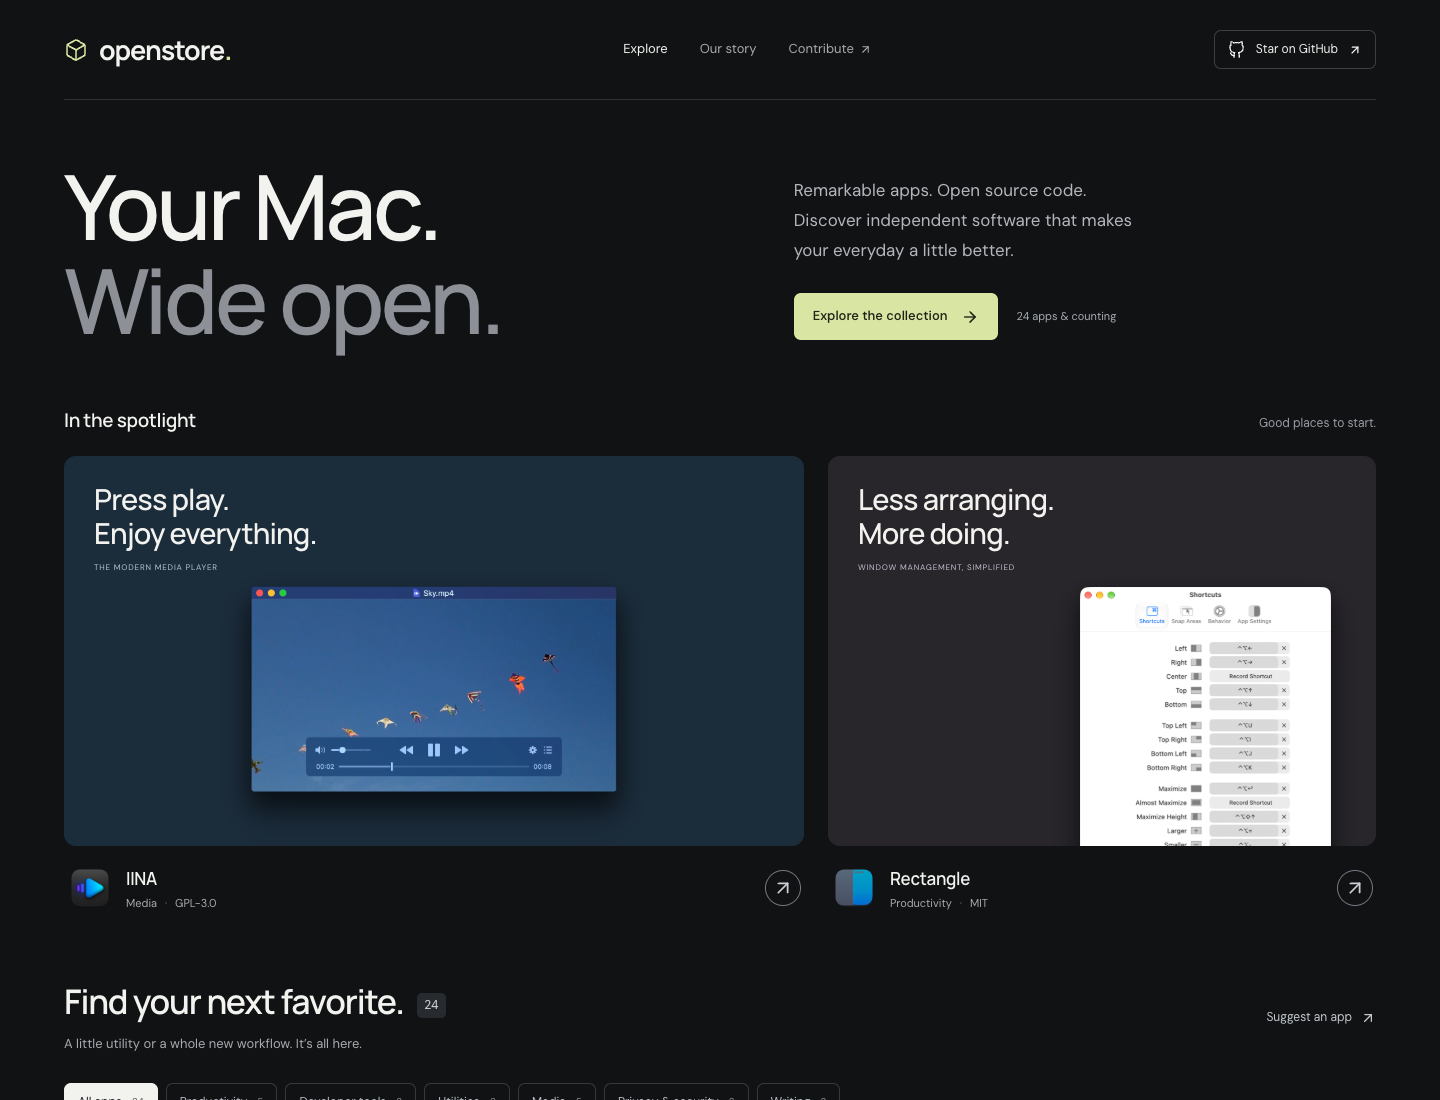
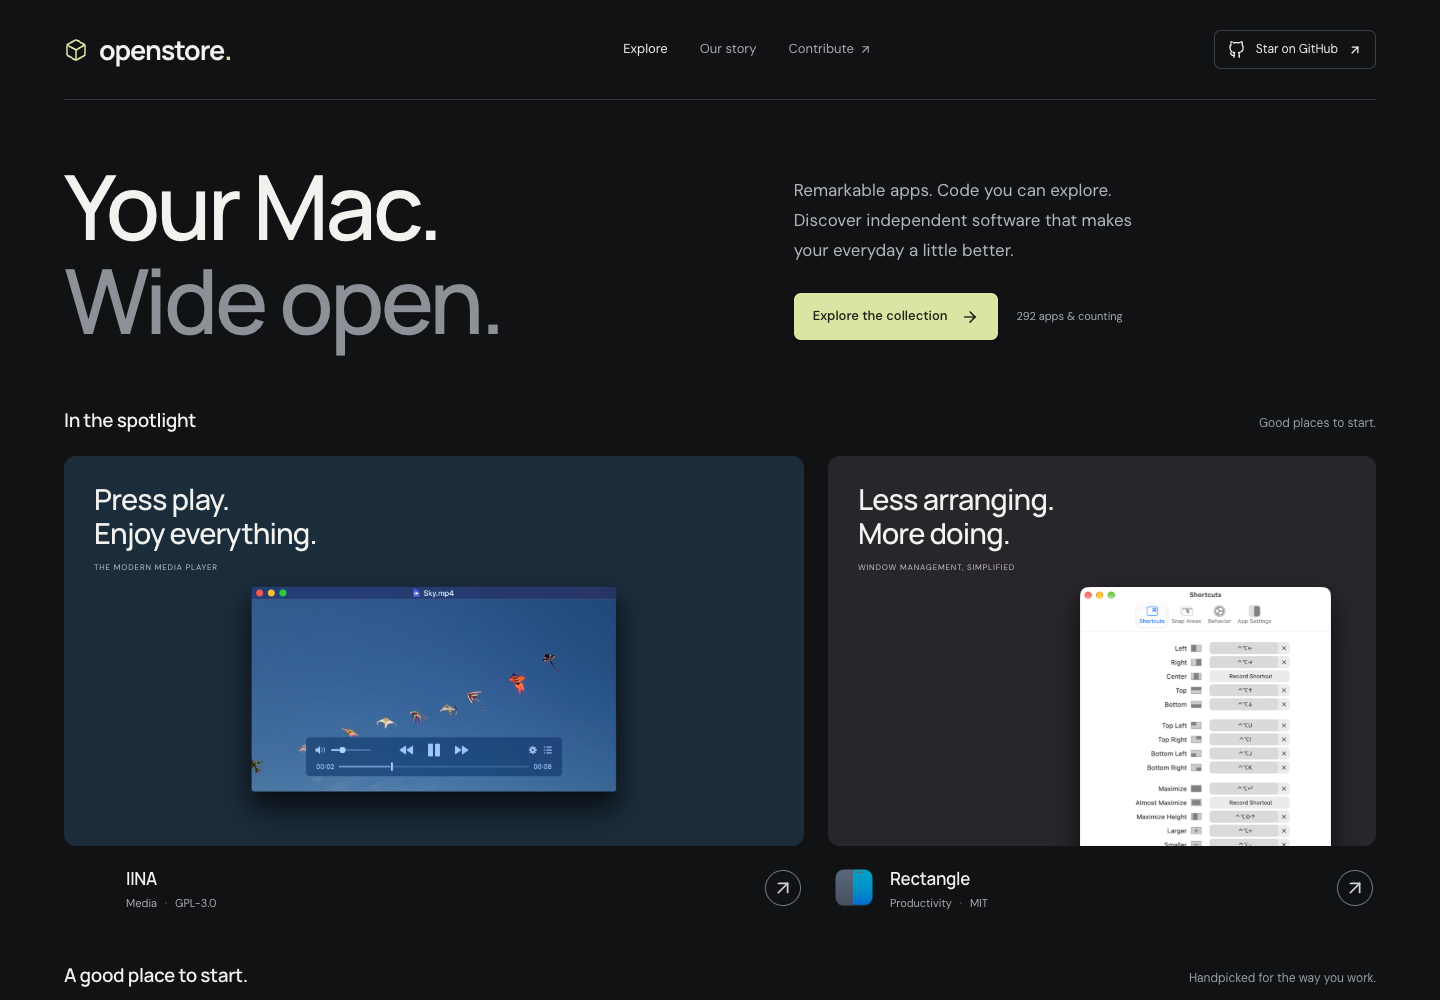
feat(store): add curated collections progressive browsing and related apps

diff --git a/src/styles/global.css b/src/styles/global.css
@@ -1835,3 +1835,76 @@ a svg {
     transform: none;
   }
 }
+
+/* Editorial collections reuse the catalog's quiet separators and real icons. */
+.collections {
+  margin: 48px 0 0;
+}
+.collection-grid {
+  display: grid;
+  grid-template-columns: repeat(4, minmax(0, 1fr));
+  gap: 28px;
+}
+.collection-link {
+  display: block;
+  padding: 20px 0;
+  border-top: 1px solid var(--line);
+}
+.collection-link:hover h3 {
+  color: var(--accent);
+}
+.collection-icons {
+  display: flex;
+  gap: 10px;
+  margin-bottom: 18px;
+}
+.collection-link h3 {
+  display: flex;
+  align-items: center;
+  justify-content: space-between;
+  gap: 10px;
+  font-size: 17px;
+}
+.collection-link p {
+  margin-top: 7px;
+  color: var(--muted);
+  font-size: 13px;
+}
+.load-more {
+  display: flex;
+  justify-content: center;
+  padding: 36px 0 10px;
+}
+@media (max-width: 900px) {
+  .collection-grid {
+    grid-template-columns: repeat(2, minmax(0, 1fr));
+    gap: 12px 24px;
+  }
+}
+@media (max-width: 480px) {
+  .collections {
+    margin-top: 36px;
+  }
+  .collection-grid {
+    gap: 8px 18px;
+  }
+  .collection-link h3 {
+    font-size: 14px;
+  }
+  .collection-link p {
+    font-size: 11px;
+  }
+  .collection-icons {
+    gap: 6px;
+  }
+  .collection-icons .app-icon {
+    width: 32px;
+    height: 32px;
+  }
+  .collection-filter {
+    width: 100%;
+  }
+  .collection-filter select {
+    max-width: 100%;
+  }
+}

diff --git a/src/lib/collections.ts b/src/lib/collections.ts
@@ -1,0 +1,69 @@
+export const collections = [
+  {
+    id: 'everyday',
+    name: 'Everyday essentials',
+    description: 'Small upgrades. A better Mac.',
+    apps: [
+      'loop',
+      'maccy',
+      'localsend',
+      'iina',
+      'rectangle',
+      'stats',
+      'ice',
+      'itsycal',
+    ],
+  },
+  {
+    id: 'focus',
+    name: 'Space to focus',
+    description: 'Think, write, and keep your place.',
+    apps: [
+      'joplin',
+      'zettlr',
+      'markedit',
+      'fsnotes',
+      'coteditor',
+      'netnewswire',
+      'keepingyouawake',
+    ],
+  },
+  {
+    id: 'developer',
+    name: 'The developer desk',
+    description: 'From the first idea to the next release.',
+    apps: [
+      'ghostty',
+      'zed',
+      'vscodium',
+      'bruno',
+      'sequel-ace',
+      'gitup',
+      'utm',
+      'devtoys',
+    ],
+  },
+  {
+    id: 'creative',
+    name: 'Make something',
+    description: 'Capture, cut, draw, and compose.',
+    apps: [
+      'cap',
+      'krita',
+      'audacity',
+      'obs-studio',
+      'shotcut',
+      'gifski',
+      'handbrake',
+      'musescore',
+    ],
+  },
+] as const;
+
+export function collectionIds(slug: string): string[] {
+  return collections
+    .filter((collection) =>
+      (collection.apps as readonly string[]).includes(slug),
+    )
+    .map((collection) => collection.id);
+}

diff --git a/docs/VERIFICATION.md b/docs/VERIFICATION.md
@@ -1,5 +1,31 @@
 # Release verification
 
+## Catalog expansion and Bun migration — 2026-10-17
+
+The current catalog contains **292 apps: 283 open source and 9 source available**, across 11 categories, with 230 genuine upstream icons and 32 screenshots. Loop, Cap and Pearcleaner are included; Pearcleaner is explicitly classified as source available.
+
+- Bun 1.4.3 installs from `bun.lock`, executes all scripts and tests, and runs Astro. GitHub Actions uses the same pinned version; no npm lockfile or setup-node step remains.
+- `bun install --frozen-lockfile`: reproducible dependency install passed.
+- `bun test`: 14 tests passed, including prevention of restricted licenses being labeled open source.
+- `bun run check`: zero errors, warnings or hints.
+- `bun run build`: 295 static pages.
+- `bun run check:links`: 8,022 generated internal links and asset references resolve.
+- `bun run check:generated`: README matches all 292 records.
+- `bun audit`: no reported vulnerabilities in the checked dependency set.
+- `bun run discover`: 1,721 repository leads from ten directories; 204 matched published entries at this snapshot. Other leads are explicitly unreviewed, not claimed to be compatible apps.
+
+Chromium checks against the production preview verified initial 24-item batches, loading 48 items, keyboard focus on newly revealed content, restoration of the expanded count through browser history, full-catalog search, all source classifications, category/tag/collection intersections, shareable URLs, reload persistence, and empty/reset states. Collection links reset incompatible prior filters. With JavaScript disabled all 292 app links remain available.
+
+Layout checks covered widths 360, 390, 768 and 1440. Desktop/mobile collection, catalog and license-detail captures were inspected. Loop, Cap, Blender, LibreOffice, Firefox, Jan and DuckStation detail routes and official download links were checked. The final production-preview browser run reported no JavaScript exceptions or failed local resources.
+
+An independent code review identified two navigation issues (retained source filters on collection links and lost expanded counts on Back). Both were fixed and confirmed by the reviewer and browser checks. Related apps are ranked by shared tags and category rather than alphabetic category membership alone.
+
+Primary-source research and exceptions are recorded in [RESEARCH.md](RESEARCH.md), the individual app records, and [the discovery queue](../research/README.md). This review does not claim every app was installed or security audited.
+
+---
+
+## First public release (historical)
+
 Reviewed on 2026-10-17 for the first public release.
 
 ## Automated checks

diff --git a/DESIGN.md b/DESIGN.md
@@ -246,3 +246,9 @@ Search, category, tag, and sort choices are reflected in the URL and restored wi
 - **Don't** replace actual application imagery with invented interfaces or decorative artwork.
 - **Don't** add shadows, gradients, or glowing surfaces as a default card treatment.
 - **Don't** infer new type scales, component variants, or token ramps as shipping implementation rules.
+
+## Catalog expansion
+
+The collection shelf uses four editorial links with real app icons, thin separators, and short descriptions. They filter the catalog through shareable `collection` URLs. The catalog now exposes source classification alongside category and tag filters. Source-available cards carry an amber text label; their detail pages explain restrictions before the description.
+
+JavaScript progressively reveals 24 matches at a time with an explicit Show more button. Search and filters still evaluate the entire collection. Without JavaScript, every app stays visible. Category, tag, source, collection and sort changes are URL-backed; loading more preserves the selected filters and moves keyboard focus to the first newly revealed app.

diff --git a/.impeccable/surfaces/src-pages-index-astro.md b/.impeccable/surfaces/src-pages-index-astro.md
@@ -22,3 +22,5 @@ FIRST VIEWPORT: Centered 1440px shell with 64px desktop gutters, 100px horizonta
 FORM: Dark-first premium software showcase, explicitly pinned by the user; reroll seed reference unavailable. The pinned direction overrides the roll. The dark-console challenger contributes seam precision, and the streaming-wall challenger contributes authentic imagery scale, while navigation remains a familiar web catalog.
 
 FINISH: unreviewed and undocumented is unfinished; this build ends with the finish review, the verdict, DESIGN.md, and every shipping raster carrying its provenance
+
+Expansion (2026-10-17): preserve the dark design while supporting a larger catalog. Add four editorial collection links, 11 categories, explicit source-availability filtering, and progressive 24-item batches with a visible result total. All records remain present without JavaScript.
